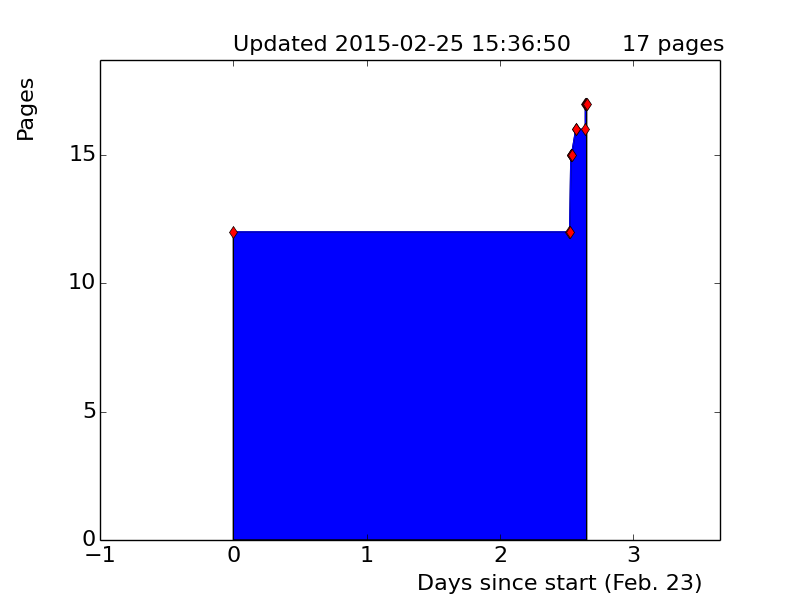
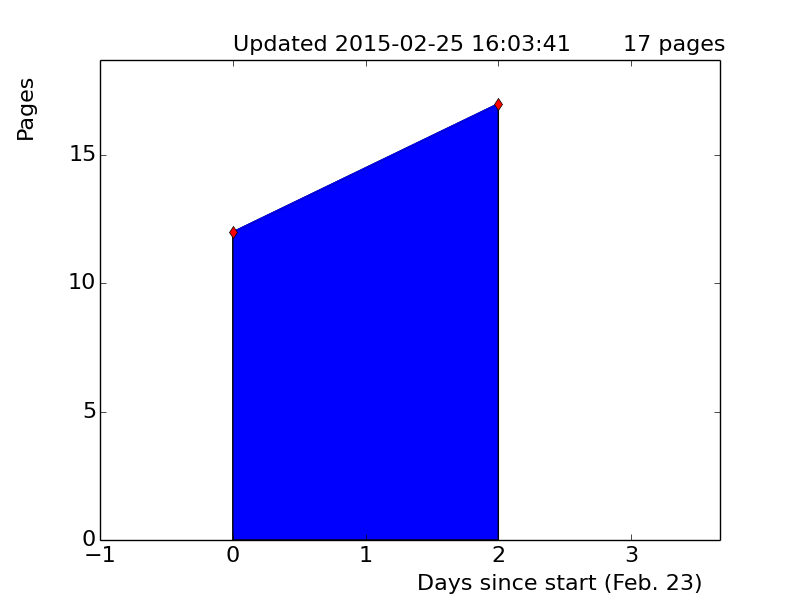
Tweaking the page plotting to show just 1 per day.

diff --git a/scripts/plot_pages.py b/scripts/plot_pages.py
@@ -14,8 +14,10 @@ pages = []
 dayssince.append(0)
 pages.append(12)
 
+first = True
+
 with open("pages.md") as file:
-    for line in file.readlines():
+    for line in reversed(file.readlines()):
 
         line = line.strip()
         if not line:
@@ -29,9 +31,19 @@ with open("pages.md") as file:
 
         current = datetime.datetime.strptime(date, "%Y-%m-%d-%Hh%Mm%Ss")
         delta = current - start
-        dayssince.append(delta.days + delta.seconds/spd)
-        pages.append(int(pagecount))
-        lasttime, lastpages = current, pagecount
+        # print delta.days
+        if not delta.days in dayssince:
+            # print "adding to the array"
+            dayssince.append(delta.days)
+            pages.append(int(pagecount))
+        
+        if first:
+            lasttime, lastpages = current, pagecount
+            # print lasttime, lastpages
+            first = False
+
+# dayssince = reversed(dayssince)
+# pages = reversed(pages)
 
 import numpy as np
 dayssince = np.array(dayssince)

diff --git a/swiatlow_thesis.tex b/swiatlow_thesis.tex
@@ -39,6 +39,8 @@
 
 
 
+
+
 \chapter{Conclusions}
          ...
 \appendix

diff --git a/pages.md b/pages.md
@@ -13,3 +13,5 @@
 + [2015-02-25-15h30m28s] 17
 + [2015-02-25-15h32m35s] 17
 + [2015-02-25-15h36m50s] 17
++ [2015-02-25-15h56m29s] 17
++ [2015-02-25-16h03m41s] 17
